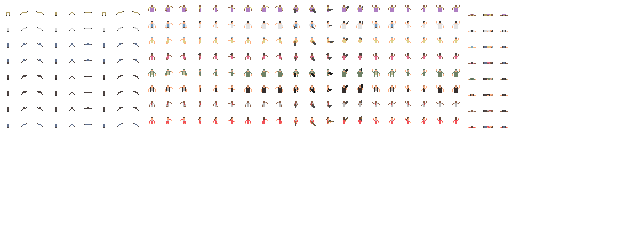
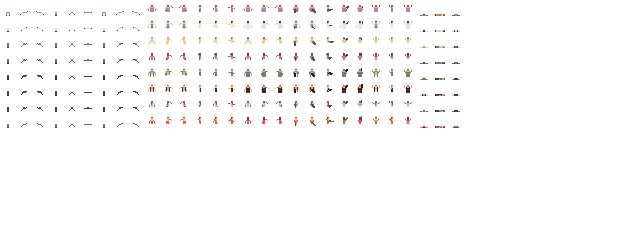
update survivor jockeyed bitmaps

diff --git a/h4d2/Entities/Mobs/Survivors/Survivor.cs b/h4d2/Entities/Mobs/Survivors/Survivor.cs
@@ -30,7 +30,7 @@ public abstract class Survivor : Mob
     private const double _bileParticleCooldown = 0.1;
     private const double _gravity = 4.0;
     private const int _jockeyFramesOffset = 23;
-    private const int _hunterFramesOffset = 29;
+    private const int _hunterFramesOffset = 26;
     
     private readonly int _character;
     private readonly int _maxHealth;
@@ -44,7 +44,6 @@ public abstract class Survivor : Mob
     private readonly CountdownTimer _bileParticleTimer;
     private int _bileOverlayIndex;
     private Special? _pinner;
-    private int _jockeyedStep;
     private ReadonlyPosition? _tongueOffset;
     
     protected Survivor(Level level, Position position, SurvivorConfig config) 
@@ -64,7 +63,6 @@ public abstract class Survivor : Mob
         _bileParticleTimer = new CountdownTimer(_bileParticleCooldown);
         _bileOverlayIndex = 0;
         _pinner = null;
-        _jockeyedStep = 0;
         _tongueOffset = null;
     }
 
@@ -391,7 +389,6 @@ public abstract class Survivor : Mob
         
         while (_frameUpdateTimer.IsFinished)
         {
-            _jockeyedStep = _jockeyedStep == 0 ? 1 : 0;
             _walkStep = (_walkStep + 1) % 4;
             int nextFrame = 0;
             if (spriteDirection.Offset == 1)
@@ -416,7 +413,7 @@ public abstract class Survivor : Mob
             }
 
             _lowerFrame = nextFrame;
-            _upperFrame = _jockeyFramesOffset + _jockeyedStep + (spriteDirection.Offset * 2);
+            _upperFrame = _jockeyFramesOffset + spriteDirection.Offset;
             _frameUpdateTimer.AddDuration();
         }
     }

diff --git a/h4d2/Infrastructure/H4D2/H4D2Art.cs b/h4d2/Infrastructure/H4D2/H4D2Art.cs
@@ -26,7 +26,7 @@ public static class H4D2Art
     public static Bitmap[] BileOverlays => _bileOverlays.SelectMany(x => x).ToArray();
     
     private static Bitmap[][] _LoadSurvivors() => 
-        Art.LoadBitmaps($"{_resourcePrefix}survivor.png", SpriteSize, 8, 33);
+        Art.LoadBitmaps($"{_resourcePrefix}survivor.png", SpriteSize, 8, 30);
     private static Bitmap[][] _LoadCommons() => 
         Art.LoadBitmaps($"{_resourcePrefix}common.png", SpriteSize, 9, 23);
     private static Bitmap[][] _LoadUncommons() => 

diff --git a/h4d2/Levels/Level.cs b/h4d2/Levels/Level.cs
@@ -50,7 +50,7 @@ public class Level
         _entities.Add(new Francis(this, new Position(150, 150)));
         _entities.Add(new Louis(this, new Position(150, 150)));
         _entities.Add(new Zoey(this, new Position(150, 150)));
-        _entities.Add(new Smoker(this, new Position(40, 40)));
+        _entities.Add(new Jockey(this, new Position(40, 40)));
     }
     
     public Entity? GetFirstCollidingEntity(Entity e1, ReadonlyPosition position, Entity? exclude)
